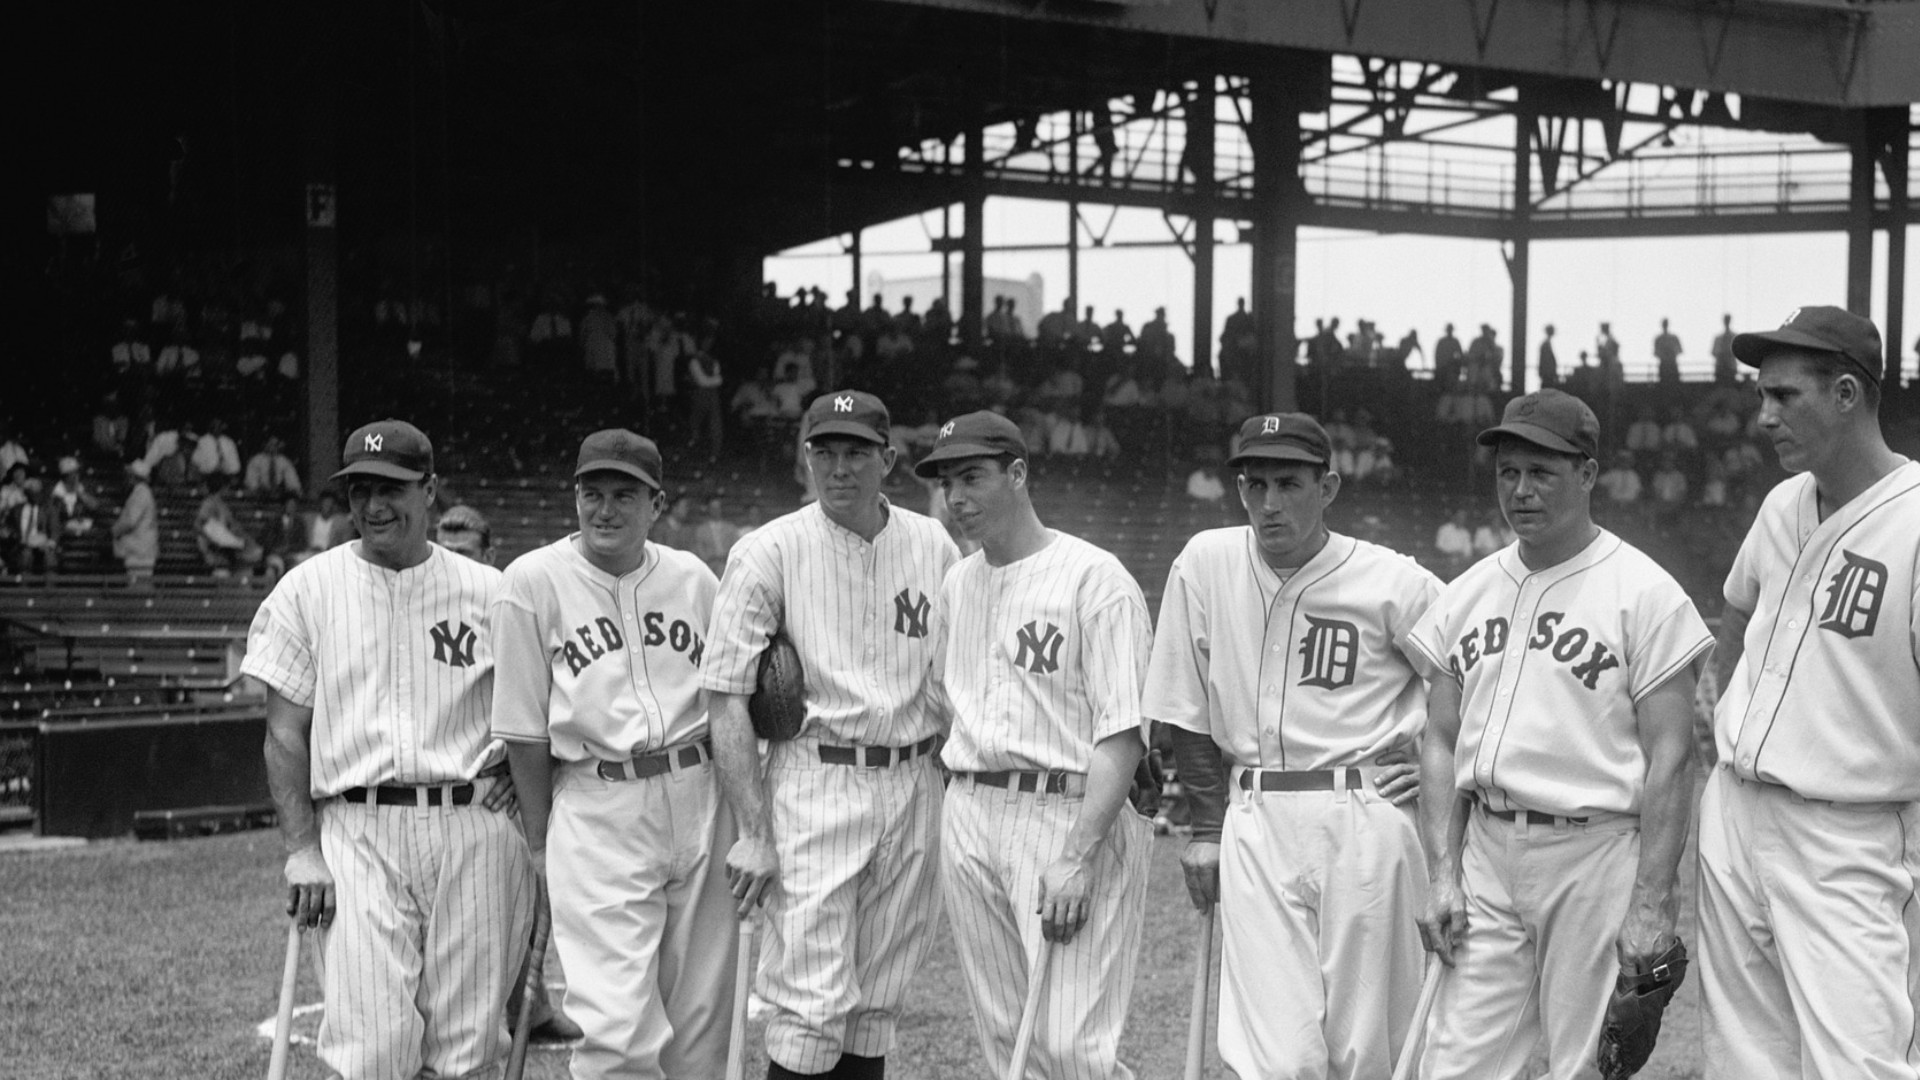
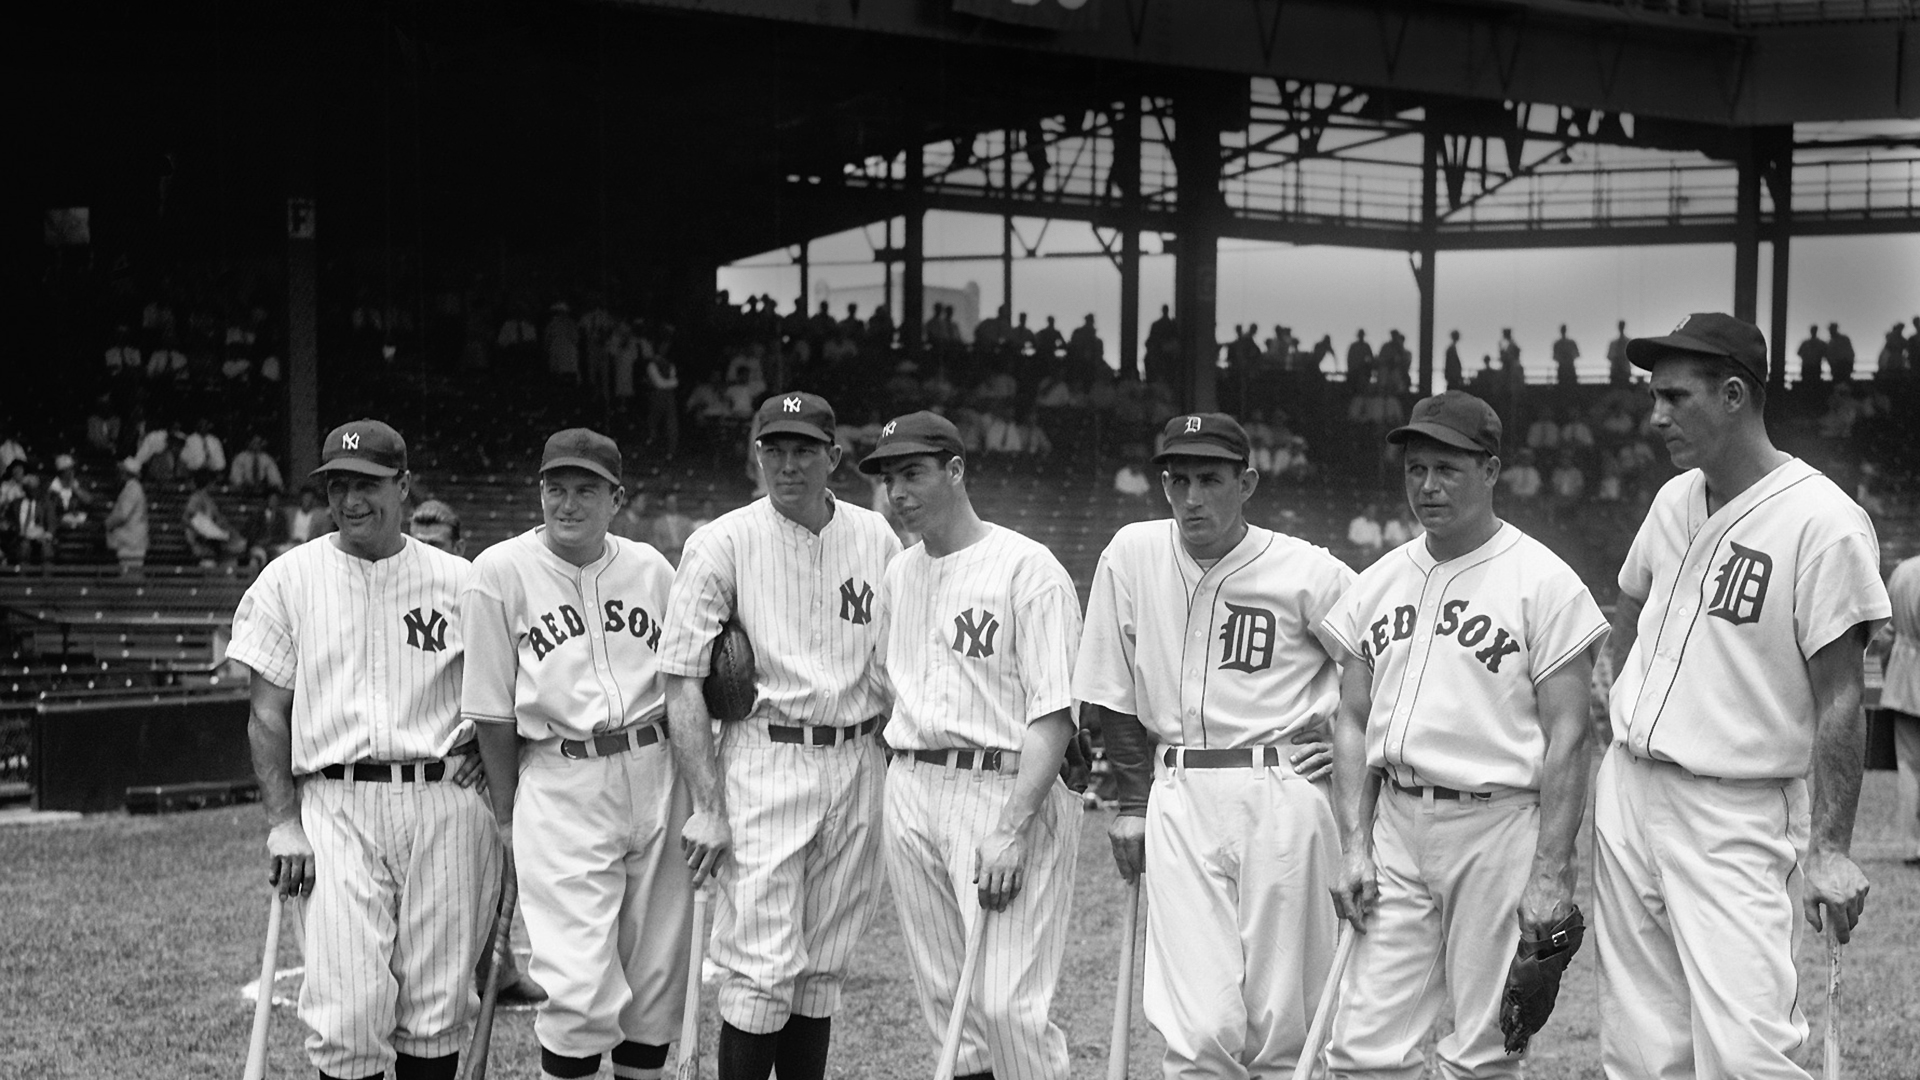
home/player/team cover imges and styles updated

diff --git a/React_front/src/pages/Player/Player.Styled.js b/React_front/src/pages/Player/Player.Styled.js
@@ -28,6 +28,16 @@ export const Block = styled.div`
   background: ${(props) => props.theme.primary.background};
 `;
 
+export const Frame = styled.div`
+  border: ${(props) => props.theme.primary.border};
+  padding: ${(props) => props.theme.standart.gutterSize};
+  background-color: ${(props) => props.theme.secondary.color};
+
+  @media (max-width: ${(props) => props.theme.websiteWidth}) {
+    padding: ${(props) => props.theme.tiny.gutterSize};
+  }
+`;
+
 export const ButtonBlock = styled.div`
   display: flex;
   justify-content: space-between;
@@ -98,15 +108,5 @@ export const TableButtonBlock = styled.div`
   border-bottom: ${(props) => props.theme.secondary.border};
   &:hover {
     border-bottom: ${(props) => props.theme.primary.border};
-  }
-`;
-
-export const Frame = styled.div`
-  border: ${(props) => props.theme.primary.border};
-  padding: ${(props) => props.theme.standart.gutterSize};
-  background-color: ${(props) => props.theme.secondary.color};
-
-  @media (max-width: ${(props) => props.theme.websiteWidth}) {
-    padding: ${(props) => props.theme.tiny.gutterSize};
   }
 `;

diff --git a/React_front/src/pages/Home/Home.styled.js b/React_front/src/pages/Home/Home.styled.js
@@ -13,12 +13,12 @@ export const Logo = styled.img`
 `;
 
 export const PageBackground = styled.div`
-  background: url(${backImg}) center left;
+  background: url(${backImg}) left center;
   object-fit: cover;
   height: ${(props) => props.theme.fullHeight};
   width: 100%;
 
   @media (max-width: 66em) {
-    background: url(${backImg}) center center;
+    background: url(${backImg}) center;
   }
 `;

diff --git a/React_front/src/pages/Team/Team.Styled.js b/React_front/src/pages/Team/Team.Styled.js
@@ -8,10 +8,6 @@ export const PageBackground = styled.div`
   object-fit: cover;
   height: ${(props) => props.theme.fullHeight};
   width: 100%;
-
-  @media (max-width: ${(props) => props.theme.websiteWidth}) {
-    background: url(${backImg});
-  }
 `;
 
 export const Frame = styled.div`
